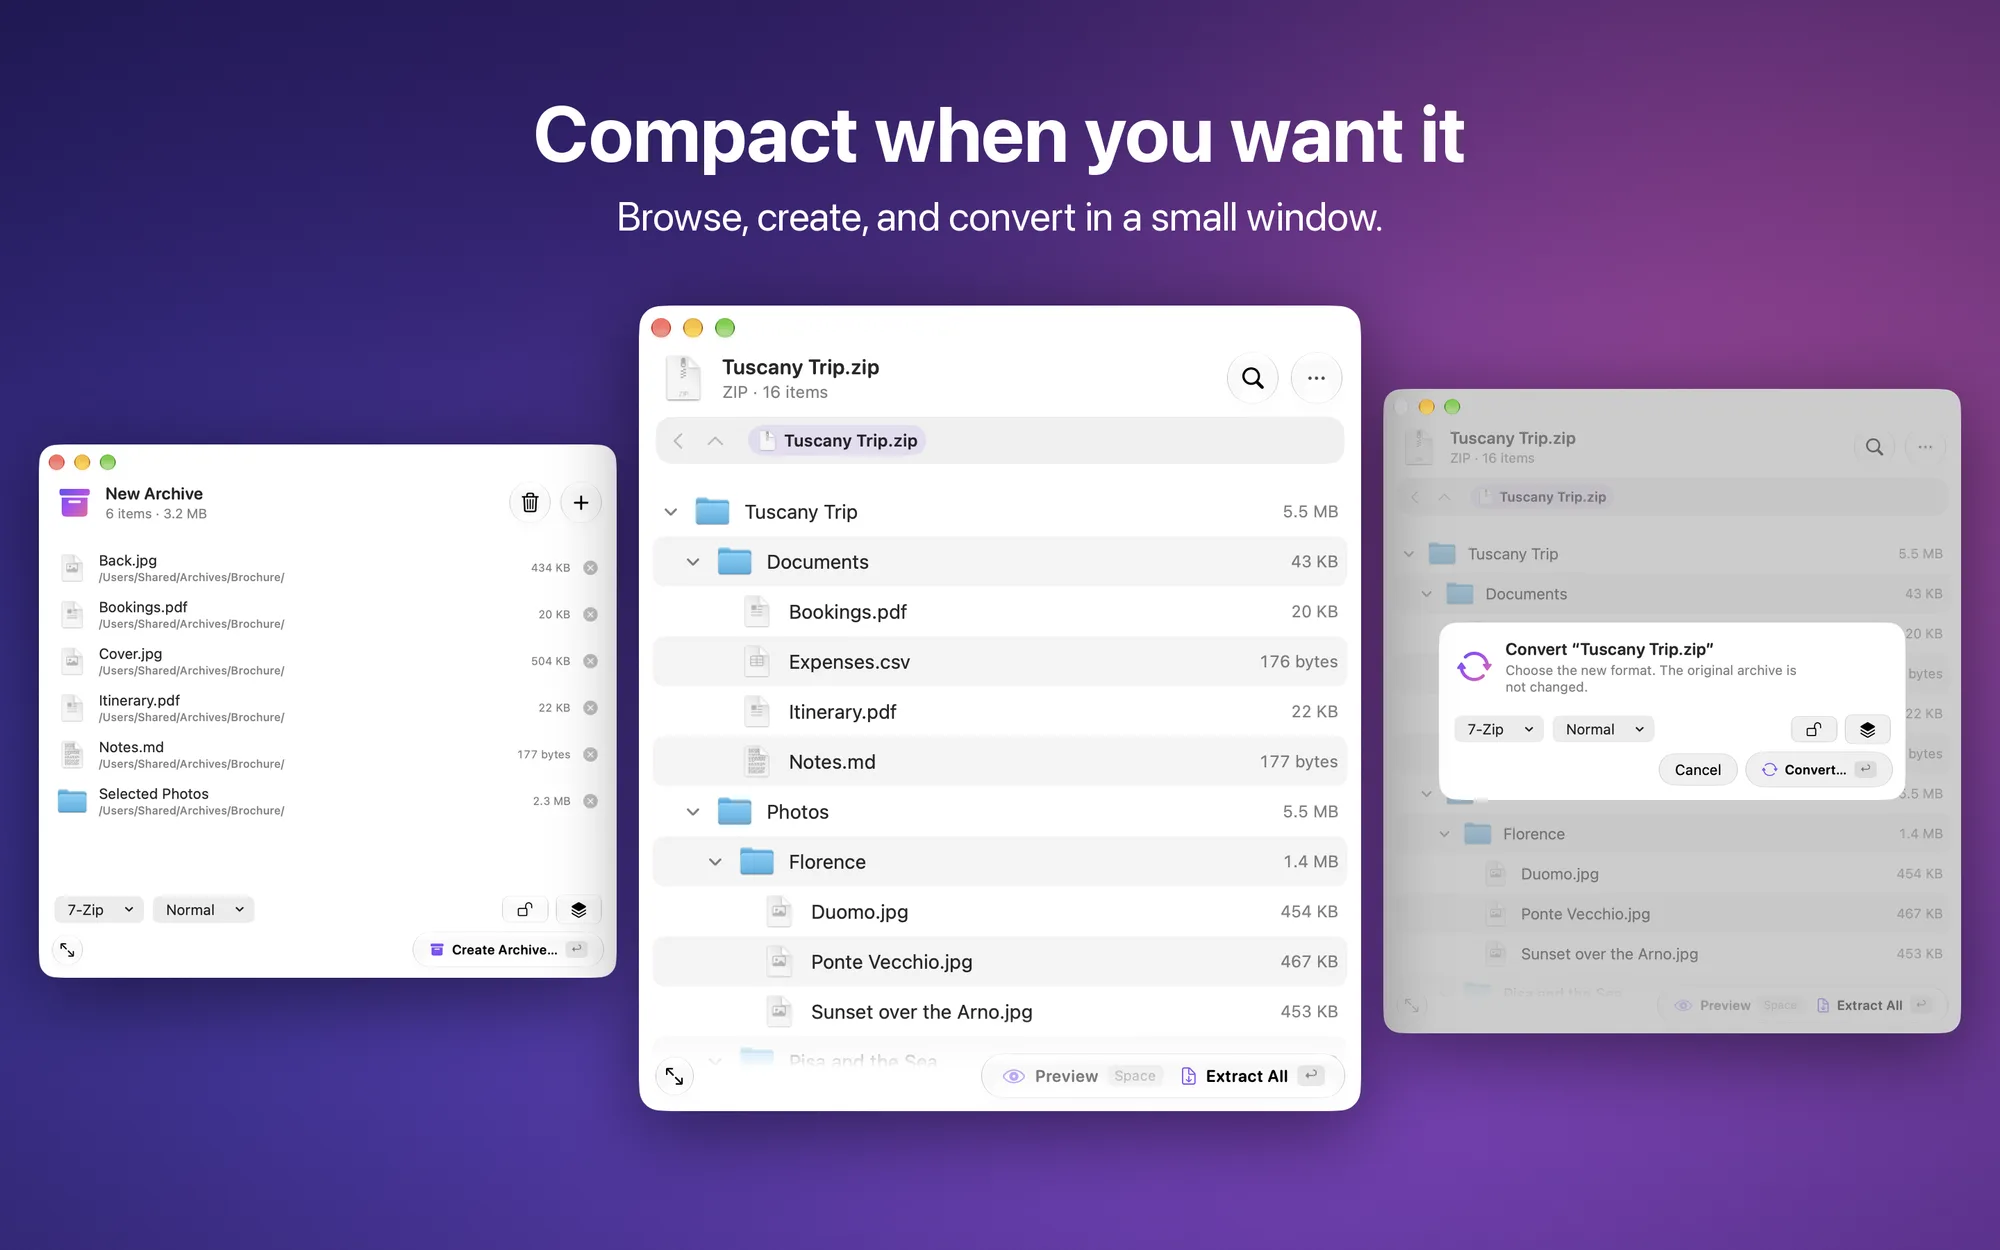
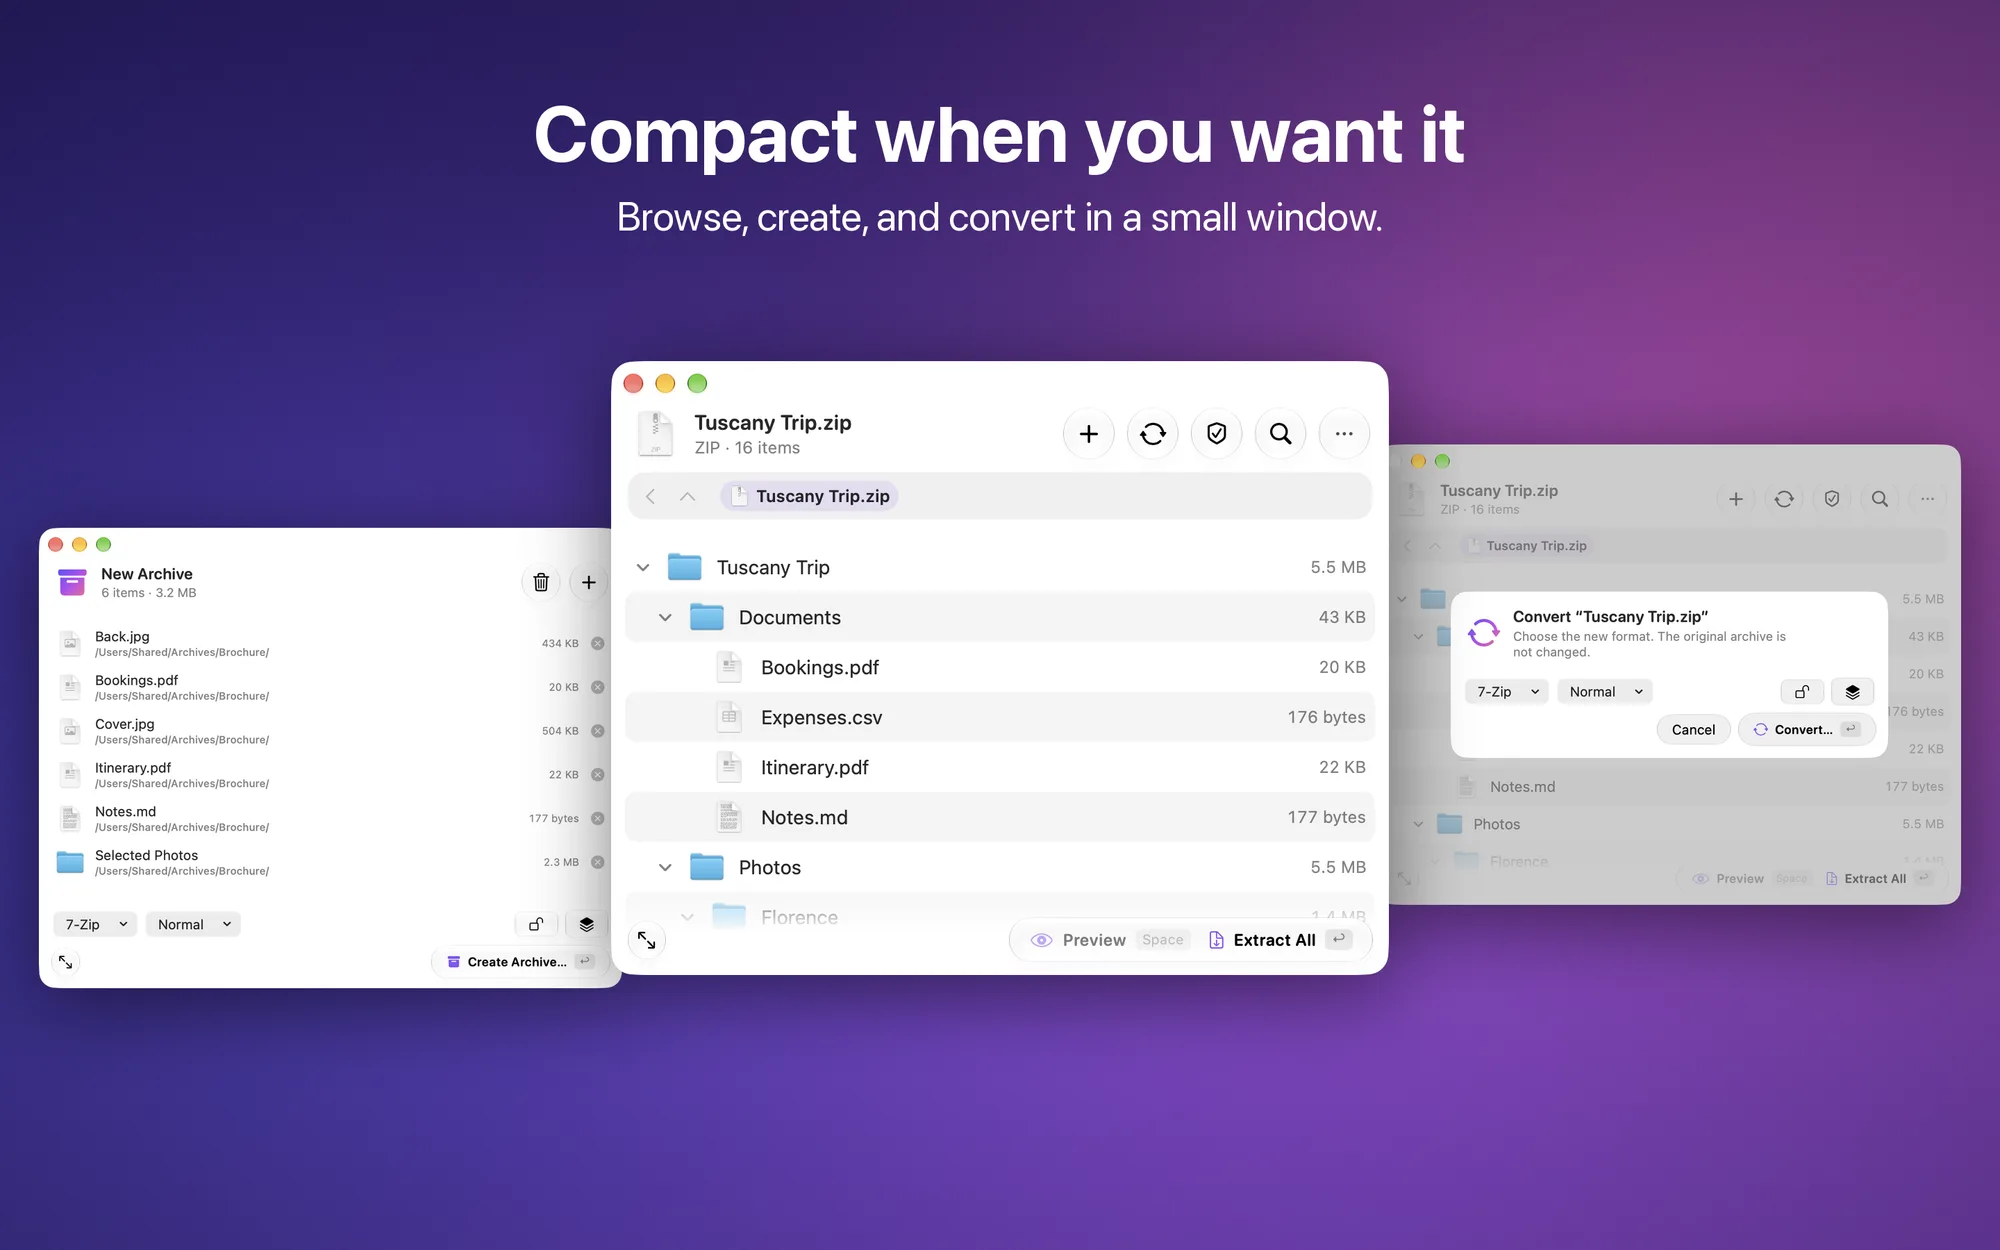
feat(sito): SEO, tabelle leggibili e tag nascosti
Home e progetti hanno titoli descrittivi; i dati strutturati indicano sistema,
categoria, prezzo e breadcrumb, e la sitemap le date degli articoli. Le tabelle
non spezzano più le parole e scorrono quando sono larghe. I tag spariscono da
articoli e menu, con le loro pagine. Aggiorna anche lo screenshot compatto e la
documentazione di Archiva.

Changed region(s): [[0.0, 0.2184, 0.992, 0.936]]

diff --git a/src/utils/postLastmod.ts b/src/utils/postLastmod.ts
@@ -1,0 +1,23 @@
+import { readdirSync, readFileSync } from "node:fs";
+import { join } from "node:path";
+
+const COLLECTIONS = [
+  ["src/data/blog", "/posts/"],
+  ["src/data/en/blog", "/en/posts/"],
+] as const;
+
+// Maps each post URL path to its last real change, for the sitemap
+export function postLastmod() {
+  const dates = new Map<string, string>();
+  for (const [dir, route] of COLLECTIONS) {
+    for (const file of readdirSync(dir)) {
+      if (!/\.mdx?$/.test(file)) continue;
+      const source = readFileSync(join(dir, file), "utf8");
+      const date = /^modDatetime:\s*(\S+)/m.exec(source)?.[1] ?? /^pubDatetime:\s*(\S+)/m.exec(source)?.[1];
+      if (date && !Number.isNaN(Date.parse(date))) {
+        dates.set(`${route}${file.replace(/\.mdx?$/, "")}/`, new Date(date).toISOString());
+      }
+    }
+  }
+  return dates;
+}

diff --git a/src/styles/typography.css b/src/styles/typography.css
@@ -161,24 +161,25 @@ html[data-theme="dark"] {
       @apply opacity-75;
     }
 
+    .table-scroll {
+      @apply my-6 overflow-x-auto;
+    }
+
     table {
-      @apply w-full table-auto border-collapse;
+      @apply my-0 w-full table-auto border-collapse;
 
       th,
       td {
         @apply border border-border p-2 text-foreground;
-        word-wrap: break-word;
-        word-break: break-word;
-        hyphens: auto;
-        overflow-wrap: break-word;
       }
 
       th {
         @apply py-1.5 font-bold;
       }
 
-      code {
-        @apply break-all sm:break-normal;
+      td:has(kbd),
+      td code {
+        @apply whitespace-nowrap;
       }
     }
 

diff --git a/src/utils/rehypeTableScroll.ts b/src/utils/rehypeTableScroll.ts
@@ -1,0 +1,25 @@
+type HastNode = {
+  type: string;
+  tagName?: string;
+  properties?: Record<string, unknown>;
+  children?: HastNode[];
+};
+
+// Wraps Markdown tables so that wide ones scroll instead of splitting words
+export default function rehypeTableScroll() {
+  const visit = (node: HastNode) => {
+    node.children = node.children?.map(child => {
+      if (child.tagName !== "table") {
+        visit(child);
+        return child;
+      }
+      return {
+        type: "element",
+        tagName: "div",
+        properties: { className: ["table-scroll"], tabIndex: 0 },
+        children: [child],
+      };
+    });
+  };
+  return visit;
+}

diff --git a/src/utils/breadcrumbStructuredData.ts b/src/utils/breadcrumbStructuredData.ts
@@ -1,0 +1,17 @@
+import { SITE } from "@/config";
+
+type Crumb = { name: string; href?: string | null };
+
+// JSON-LD counterpart of the visible breadcrumb; the last item is the current page
+export function breadcrumbStructuredData(items: Crumb[]) {
+  return {
+    "@context": "https://schema.org",
+    "@type": "BreadcrumbList",
+    itemListElement: items.map(({ name, href }, index) => ({
+      "@type": "ListItem",
+      position: index + 1,
+      name,
+      ...(href && { item: new URL(href.endsWith("/") ? href : `${href}/`, SITE.website).href }),
+    })),
+  };
+}

diff --git a/src/pages/tags/[tag]/og.png.ts b/src/pages/tags/[tag]/og.png.ts
@@ -5,6 +5,8 @@ import { generateOgImageForTag } from "@/utils/generateOgImages";
 import { SITE } from "@/config";
 
 export async function getStaticPaths(): Promise<GetStaticPathsResult> {
+  if (!SITE.showTags) return [];
+
   const [blogPosts, galleryPosts] = await Promise.all([
     getCollection("blog"),
     SITE.showGalleries && SITE.showGalleriesInIndex

diff --git a/src/config.ts b/src/config.ts
@@ -11,10 +11,11 @@ export const SITE = {
   postPerPage: 12,
   scheduledPostMargin: 15 * 60 * 1000,
   showArchives: true,
+  showTags: false,
   showGalleries: false,
   showGalleriesInIndex: false,
   showBackButton: true,
-  showTagsInCards: true,
+  showTagsInCards: false,
   showCoverImages: false,
   indexPostsGrid: true,
   heroTerminalPrompt: {

diff --git a/src/content.config.ts b/src/content.config.ts
@@ -51,6 +51,8 @@ const galleries = defineCollection({
 
 const projectSchema = z.object({
   title: z.string(),
+  seoTitle: z.string().optional(),
+  applicationCategory: z.string().optional(),
   description: z.string(),
   pubDatetime: z.date(),
   draft: z.boolean().optional(),

diff --git a/src/data/docs/archiva/gestione-archivi.md b/src/data/docs/archiva/gestione-archivi.md
@@ -26,7 +26,7 @@ Premendo <kbd>Spazio</kbd> o <kbd>⌘</kbd> <kbd>Y</kbd> si apre il pannello di 
 
 ## Vista compatta
 
-Con <kbd>⌥</kbd> <kbd>⌘</kbd> <kbd>L</kbd> passi dalla vista completa a una finestra piccola, con l'elenco a righe e i comandi essenziali. Anche la creazione e la conversione hanno la loro versione compatta.
+Con <kbd>⌥</kbd> <kbd>⌘</kbd> <kbd>L</kbd> passi dalla vista completa a una finestra piccola, con l'elenco a righe e i comandi essenziali: aggiungi, converti e verifica stanno nell'intestazione. Anche la creazione e la conversione hanno la loro versione compatta.
 
 ## Ispezione di app e pacchetti (`BundleInspector`)
 

diff --git a/src/data/en/docs/archiva/archive-management.md b/src/data/en/docs/archiva/archive-management.md
@@ -26,7 +26,7 @@ Press <kbd>Space</kbd> or <kbd>⌘</kbd> <kbd>Y</kbd> to open the macOS Quick Lo
 
 ## Compact View
 
-<kbd>⌥</kbd> <kbd>⌘</kbd> <kbd>L</kbd> switches from the full view to a small window, with the list in rows and the essential commands. Creating and converting have their compact version too.
+<kbd>⌥</kbd> <kbd>⌘</kbd> <kbd>L</kbd> switches from the full view to a small window, with the list in rows and the essential commands: add, convert and verify sit in the header. Creating and converting have their compact version too.
 
 ## Inspecting Apps and Packages (`BundleInspector`)
 

diff --git a/src/data/projects/domometer.md b/src/data/projects/domometer.md
@@ -1,5 +1,7 @@
 ---
 title: "DomoMeter"
+seoTitle: "DomoMeter: consumi di luce, gas e acqua su iPhone e Android"
+applicationCategory: "UtilitiesApplication"
 description: "App per iPhone, iPad e Android per tenere sotto controllo i consumi di luce, gas e acqua dalle letture dei contatori, con fasce F1/F2/F3, grafici e limiti annuali. Dati sul dispositivo, nessun account. Gratuita, senza pubblicità né acquisti in-app."
 pubDatetime: 2026-05-04T00:00:00+02:00
 draft: false

diff --git a/src/data/projects/codevault.md b/src/data/projects/codevault.md
@@ -1,5 +1,7 @@
 ---
 title: "CodeVault"
+seoTitle: "CodeVault: snippet di codice su iPhone, iPad e Mac"
+applicationCategory: "DeveloperApplication"
 description: "App per iPhone, iPad e Mac per salvare, organizzare e ritrovare snippet di codice e note tecniche. Evidenziazione della sintassi in 20 linguaggi, sincronizzazione iCloud e blocco biometrico. Gratuita, senza pubblicità né acquisti in-app, nessun account."
 pubDatetime: 2026-09-12T00:00:00+02:00
 draft: false

diff --git a/src/data/projects/archiva.md b/src/data/projects/archiva.md
@@ -1,5 +1,7 @@
 ---
 title: "Archiva"
+seoTitle: "Archiva: app per aprire ZIP, RAR e 7z su Mac"
+applicationCategory: "UtilitiesApplication"
 description: "App per Mac per gli archivi compressi: guarda dentro ZIP, RAR, 7z e molti altri formati senza estrarli, apri archivi protetti o in più parti e crea i tuoi con password e volumi. Senza account e senza connessione. Gratuita, senza pubblicità né acquisti in-app."
 pubDatetime: 2026-10-13T00:00:00+02:00
 draft: false
